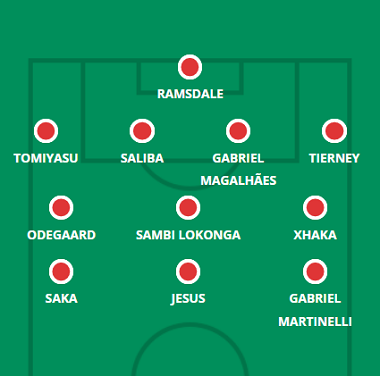
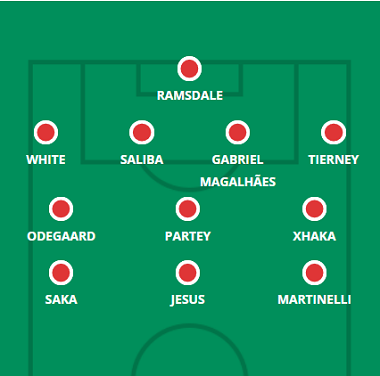
Bre, Ars, Ever

diff --git a/escalacoes.html b/escalacoes.html
@@ -66,7 +66,7 @@
             <hgroup>
                 <h1> Provável Escalação</h1>
                 <h2 class="direita"> por FabioVascão </h2>
-                <h3 class="direita"> Atualizado em 09/Setembro/2022 </h3>
+                <h3 class="direita"> Atualizado em 16/Setembro/2022 </h3>
             </hgroup>
     
             <h2 class="time"> <img src="_fotos/_logos/logoarsenal.png" />Arsenal</h2>
@@ -75,9 +75,9 @@
                     <img src="_fotos/_dinamicas/arsenal.png" />
                 </figure>
             </aside>
-                <div class="escalacao"><h2 class="titulo">Ultimas Notícias</h2> <h4><p>Mais informações em breve.</p></h4><br>
-                    <h4><strong>Jogadores fora da próxima partida:</strong> Elneny, Nelson e Partey</h4><br><br>
-                    <h4><strong>Jogadores dúvidas:</strong> Oodegard, Ramsdale e Zinchenko</h4>
+                <div class="escalacao"><h2 class="titulo">Ultimas Notícias</h2> <h4><p>Reiss Nelson (lesão múscular) e Mohamed Elneny (lesão na coxa) permanecem de fora, mas Mikel Arteta nos ofereceu muito pouco sobre as últimas notícias de lesões do Arsenal, dizendo que uma decisão sobre o envolvimento dos jogadores contra Brentford seria tomada após o treino de amanhã. Há pontos de interrogação sobre Emile Smith Rowe (virilha), que sofreu uma lesão no aquecimento após a sexta rodada, Cedric Soares (pancada), e também Oleksandr Zinchenko, que teria sido descartado da seleção ucraniana devido a uma problema na panturrilha. Também não sabemos como Thomas Partey (lesão na coxa) está em forma, depois que o meio-campista voltou aos treinos na última quinzena, mas as sugestões da mídia local são de que o internacional de Gana deve estar envolvido em alguma capacidade em Brentford neste fim de semana. Kieran Tierney será convocado como lateral-esquerdo se Zinchenko estiver de fato afastado, enquanto Albert Sambi Lokonga será o peso decisivo se Partey for considerado apto o suficiente para começar. Jogadores como Rob Holding, Eddie Nketiah e Fabio Vieira estarão prontos para mais substitutos, enquanto a confirmação de Arteta de que Ben White está em forma - ele foi omitido da seleção da Inglaterra para os internacionais de setembro - provavelmente verá Takehiro Tomiyasu esquentando o banco, também. Todos, exceto Tierney e Partey, do nosso previsto XI, são titulares sempre presentes em 2022/23.</p></h4><br>
+                    <h4><strong>Jogadores fora da próxima partida:</strong> Elneny e Nelson </h4><br><br>
+                    <h4><strong>Jogadores dúvidas:</strong> Cedric, Partey, Oodegard, Smith-Rowe e Zinchenko</h4>
                 </div> 
         </header>
         </article>

diff --git a/everton.html b/everton.html
@@ -66,7 +66,7 @@
             <hgroup>
                 <h1> Provável Escalação</h1>
                 <h2 class="direita"> por FabioVascão </h2>
-                <h3 class="direita"> Atualizado em 09/Setembro/2022 </h3>
+                <h3 class="direita"> Atualizado em 16/Setembro/2022 </h3>
             </hgroup>
     
             <h2 class="time"> <img src="_fotos/_logos/logoeverton.png" />Everton</h2>
@@ -75,9 +75,9 @@
                     <img src="_fotos/_dinamicas/everton.png" />
                 </figure>
             </aside>
-                <div class="escalacao"><h2 class="titulo">Ultimas Notícias</h2> <h4><p>Mais informações em breve.</p></h4><br>
-                    <h4><strong>Jogadores fora da próxima partida:</strong> Calvert-Lewin, Godfrey, Doucore, Mina e Townsend</h4><br><br>
-                    <h4><strong>Jogadores dúvidas:</strong> </h4>
+                <div class="escalacao"><h2 class="titulo">Ultimas Notícias</h2> <h4><p>Frank Lampard será forçado a pelo menos uma mudança neste fim de semana, com Asmir Begovic definido para substituir Jordan Pickford entre os postes depois que o internacional da Inglaterra sofreu uma lesão na coxa no derby de Merseyside. Pickford se junta a Mason Holgate (lesão no joelho), Andros Townsend (lesão no joelho), Yerry Mina (lesão no tornozelo) e Ben Godfrey (lesão na perna) nas laterais do jogo de domingo, mas Abdoulaye Doucoure (lesão na coxa) está em forma e Dominic Calvert-Lewin (lesão no joelho) pode integrar o plantel da jornada após o regresso aos treinos na última quinzena. O dever de banco, na melhor das hipóteses, provavelmente acena para Calvert-Lewin, devido ao seu período de ausência e ao fato de que o Everton agora tem Neal Maupay para liderar a linha, enquanto Doucoure também pode enfrentar uma difícil tarefa de voltar ao meio-campo depois que Tom Davies teve um bom desempenho ao lado de Alex. Iwobi e Amadou Onana na semana 6. As novas contratações Idrissa Gana Gueye e James Garner também são alternativas na sala de máquinas, então Lampard de repente tem muitas opções à sua disposição depois de lutar por números durante grande parte de agosto.</p></h4><br>
+                    <h4><strong>Jogadores fora da próxima partida:</strong> Godfrey, Holgate, Mina, Pickford e Townsend</h4><br><br>
+                    <h4><strong>Jogadores dúvidas:</strong> Calvert-Lewin</h4>
                 </div> 
         </header>
         </article>

diff --git a/brentford.html b/brentford.html
@@ -66,7 +66,7 @@
             <hgroup>
                 <h1> Provável Escalação</h1>
                 <h2 class="direita"> por FabioVascão </h2>
-                <h3 class="direita"> Atualizado em 09/Setembro/2022 </h3>
+                <h3 class="direita"> Atualizado em 16/Setembro/2022 </h3>
             </hgroup>
     
             <h2 class="time"> <img src="_fotos/_logos/logobrentford.png" />Brentford</h2>
@@ -75,10 +75,10 @@
                     <img src="_fotos/_dinamicas/brentford.png" />
                 </figure>
             </aside>
-                <div class="escalacao"><h2 class="titulo">Ultimas Notícias</h2> <h4><p>Mais informações em breve.</p></h4><br>
-                    <h4><strong>Jogadores fora da próxima partida:</strong> Canos, Forss, Norgaard, Pinnock e Thompson
+                <div class="escalacao"><h2 class="titulo">Ultimas Notícias</h2> <h4><p>Christian Norgaard (lesão no tendão de aquiles) e Ethan Pinnock (lesão no joelho) permanecem indisponíveis, mas Sergi Canos (lesão na coxa) entra na disputa por um retorno como titular, tendo sido aprovado pelo seu empresário. Apesar da natureza convincente da vitória sobre o Leeds há duas semanas, você provavelmente pode esperar uma mudança ou duas na escalação de Thomas Frank, já que ele normalmente adaptou sua seleção de equipe ao calibre da oposição. O chefe de Brentford sempre optou por um 5-3-2/3-5-2 ao enfrentar um time do Big Six, por exemplo, então Keane Lewis-Potter é o cordeiro de sacrifício óbvio se Frank temporariamente arquivar o 4-3- 3. Kristoffer Ajer provavelmente será convocado como terceiro zagueiro se isso acontecer, com Mads Roerslev como alternativa se Ajer não estiver em forma após seu retorno relativamente recente de lesão. Quem se alinha ao lado de Vitaly Janelt e Mathias Jensen é o outro dilema-chave para o técnico dos Bees, com Shandon Baptiste recebendo as duas últimas partidas, mas Frank Onyeka e Josh Dasilva oferecendo opções alternativas na volância.</p></h4><br>
+                    <h4><strong>Jogadores fora da próxima partida:</strong> Forss, Norgaard, Pinnock e Thompson
                     </h4><br><br>
-                    <h4><strong>Jogadores dúvidas:</strong>Ajer</h4>
+                    <h4><strong>Jogadores dúvidas:</strong></h4>
                 </div> 
         </header>
         </article>
